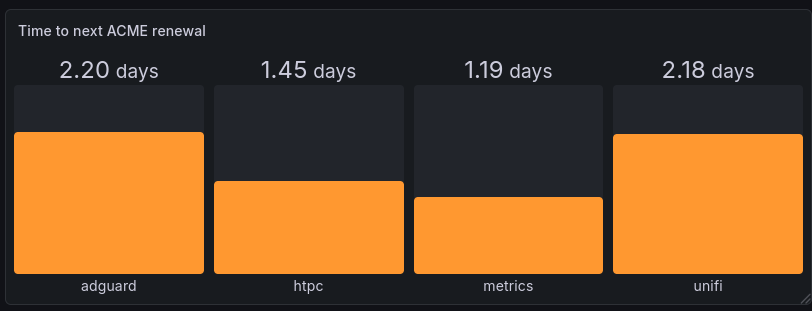
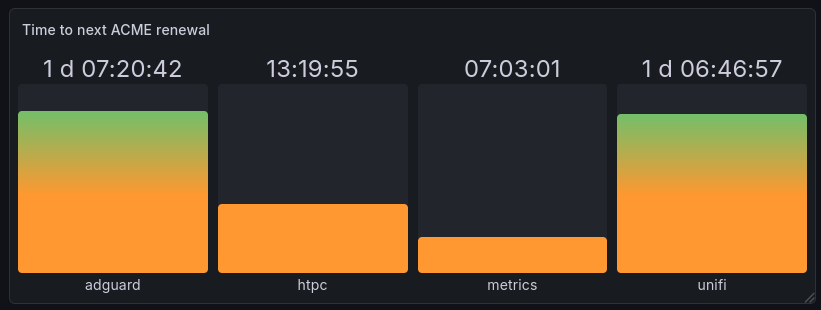
Better Grafana tips.

diff --git a/README.md b/README.md
@@ -203,7 +203,7 @@ Let's Encrypt TLS would look like:
                 {
                     context = "/metrics"
                     url = "module://metrics"
-                    // Env variables can be referenced
+                    // Optional. Env variables can be referenced.
                     auth_key = $env_SECRET_KEY
                 }
             ]
@@ -227,11 +227,11 @@ The number of metrics is quite small at the moment, but will added over
 time. Most of them are standard request/error counters, but there is also
 `vicarian_acme_next_renewal_timestamp_secs`, which is the (future) timestamp for
 the next ACME/LetsEncrypt renewal. To consume this in e.g. Grafana you should
-subtract the current timestamp from it, and possibly scale it to days:
+subtract the current timestamp from it to give time to renewal:
 
-    (vicarian_acme_next_renewal_timestamp_secs - time()) / 86400
+    vicarian_acme_next_renewal_timestamp_secs - time()
 
-This can be used as e.g. a Bar Gauge:
+This can be used as e.g. a Bar Gauge, setting the unit to `duration`:
 
 ![Bar gauge showing multiple host countdowns](docs/grafana-acme-bars.png)
 
